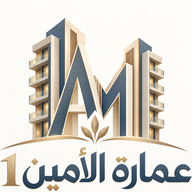
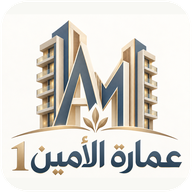
Add files via upload

diff --git a/index.html b/index.html
@@ -3,24 +3,24 @@
 <head>
   <meta charset="utf-8">
   <meta name="viewport" content="width=device-width,initial-scale=1">
+  <link rel="icon" type="image/png" sizes="64x64" href="./icons/favicon.png?v=45.0">
+  <link rel="apple-touch-icon" href="./icons/apple-touch-icon.png?v=45.0">
   <meta name="theme-color" content="#123f3a"><meta name="mobile-web-app-capable" content="yes"><meta name="apple-mobile-web-app-capable" content="yes"><meta name="apple-mobile-web-app-title" content="عمارة الأمين">
   <title>عمارة الأمين — إدارة الحسابات</title>
   <link rel="preconnect" href="https://fonts.googleapis.com">
   <link rel="preconnect" href="https://fonts.gstatic.com" crossorigin>
   <link href="https://fonts.googleapis.com/css2?family=IBM+Plex+Sans+Arabic:wght@400;500;600;700&family=Plus+Jakarta+Sans:wght@500;600;700;800&display=swap" rel="stylesheet">
-  <link rel="icon" type="image/png" href="./logo-ameen-mark.png?v=44.1">
-  <link rel="apple-touch-icon" href="./logo-ameen-mark.png?v=44.1">
-  <link rel="manifest" href="./manifest.webmanifest?v=44.1"><link rel="stylesheet" href="./styles-v31.css?v=44.1">
+  <link rel="manifest" href="./manifest.webmanifest?v=45.0"><link rel="stylesheet" href="./styles-v31.css?v=45.0">
   <script defer src="https://cdn.jsdelivr.net/npm/xlsx-js-style@1.2.0/dist/xlsx.bundle.js"></script>
   <script defer src="https://cdnjs.cloudflare.com/ajax/libs/html2pdf.js/0.10.1/html2pdf.bundle.min.js"></script>
 </head>
 <body>
-  <div id="boot" class="boot"><div class="boot-card"><div class="brand-logo boot-logo"><img src="./logo-ameen-mark.png?v=44.1" alt="شعار عمارة الأمين"></div><h1>عمارة الأمين</h1><p>جاري تجهيز الحسابات…</p></div></div>
+  <div id="boot" class="boot"><div class="boot-card"><div class="brand-logo brand-logo-hero"><img src="./assets/ameen-logo.png?v=45.0" alt="عمارة الأمين"></div><h1>عمارة الأمين</h1><p>جاري تجهيز الحسابات…</p></div></div>
 
   <div id="auth-screen" class="auth-screen hidden">
     <div class="auth-decoration d1"></div><div class="auth-decoration d2"></div>
     <div class="auth-card">
-      <div class="brand-lockup"><div class="brand-logo auth-logo"><img src="./logo-ameen-mark.png?v=44.1" alt="شعار عمارة الأمين"></div><div><b>عمارة الأمين</b><span>نظام إدارة الحسابات</span></div></div>
+      <div class="brand-lockup"><div class="brand-logo"><img src="./assets/ameen-mark.png?v=45.0" alt="عمارة الأمين"></div><div><b>عمارة الأمين</b><span>نظام إدارة الحسابات</span></div></div>
       <div class="auth-chip">● تسجيل دخول آمن</div>
       <h1>أهلاً وسهلاً</h1>
       <p>سجّل الدخول بحساب Google للوصول إلى بيانات العمارة والقراءات والحسابات.</p>
@@ -33,7 +33,7 @@
   <div id="app-shell" class="app-shell hidden">
     <aside id="sidebar" class="sidebar">
       <div class="sidebar-header">
-        <div class="brand-lockup sidebar-brand"><div class="brand-logo small sidebar-logo"><img src="./logo-ameen-mark.png?v=44.1" alt="شعار عمارة الأمين"></div><div><b>عمارة الأمين</b><span>إدارة الحسابات</span></div></div>
+        <div class="brand-lockup sidebar-brand"><div class="brand-logo small"><img src="./assets/ameen-mark.png?v=45.0" alt="عمارة الأمين"></div><div><b>عمارة الأمين</b><span>إدارة الحسابات</span></div></div>
         <button id="quickPeriod" class="start-week"><span class="plus-circle">+</span><span><b>ابدأ أسبوعًا جديدًا</b><small>القراءات السابقة تنتقل تلقائيًا</small></span></button>
       </div>
 
@@ -78,6 +78,6 @@
   <div id="toast" class="toast hidden"></div>
   <div id="modal" class="modal hidden" aria-hidden="true"><div class="modal-card"><button id="modalClose" class="modal-close">×</button><div id="modalBody"></div></div></div>
 
-  <script type="module" src="./app-v31.js?v=44.1"></script><script>if("serviceWorker" in navigator){window.addEventListener("load",()=>navigator.serviceWorker.register("./sw.js?v=44.1").catch(()=>{}));}</script>
+  <script type="module" src="./app-v31.js?v=45.0"></script><script>if("serviceWorker" in navigator){window.addEventListener("load",()=>navigator.serviceWorker.register("./sw.js?v=45.0").catch(()=>{}));}</script>
 </body>
 </html>

diff --git a/styles-v31.css b/styles-v31.css
@@ -168,9 +168,69 @@ body{letter-spacing:0}
 
 .approval-count{display:inline-flex;min-width:20px;height:20px;padding:0 6px;align-items:center;justify-content:center;border-radius:999px;background:#c62828;color:#fff;font-size:11px;font-weight:800;margin-inline-start:auto}.readonly-hidden{display:none!important}
 
-/* Real Al-Ameen branding */
-.brand-logo{overflow:hidden;background:#fff;border:1px solid rgba(20,59,53,.10);padding:0;isolation:isolate;}
-.brand-logo img{display:block;width:100%;height:100%;object-fit:cover;border-radius:inherit;}
-.boot-logo{width:84px;height:84px;border-radius:24px;box-shadow:0 16px 34px rgba(19,65,57,.14);margin:0 auto;}
-.auth-logo{width:68px;height:68px;border-radius:20px;box-shadow:0 12px 26px rgba(19,65,57,.12);}
-.sidebar-logo{width:44px;height:44px;border-radius:15px;box-shadow:0 8px 18px rgba(19,65,57,.10);}
+
+/* V45 responsive polish + logo */
+.brand-logo{background:#fff;border:1px solid #e5e9e4;overflow:hidden;flex:none;box-shadow:0 7px 18px rgba(24,55,49,.08);padding:2px}
+.brand-logo img{width:100%;height:100%;display:block;object-fit:cover;border-radius:inherit}
+.brand-logo-hero{width:110px;height:110px;border-radius:26px;margin:0 auto;padding:4px;box-shadow:0 12px 30px rgba(24,55,49,.10)}
+.brand-logo-hero img{object-fit:contain;border-radius:20px}
+.sidebar-brand .brand-logo.small{padding:2px}
+@media(max-width:900px){
+  html,body{overflow-x:hidden}
+  .main-shell{padding-left:12px;padding-right:12px}
+  .topbar{margin-bottom:14px}
+  .topbar-actions{display:grid;grid-template-columns:1fr;gap:7px;width:100%}
+  .topbar-actions .btn{width:100%}
+  .panel,.report-hero,.guide-hero,.welcome{padding:14px;border-radius:13px}
+  .panel-head{flex-direction:column;align-items:stretch;gap:10px}
+  .panel-actions,.head-actions,.row-actions,.report-table-tools,.guide-actions-right{display:flex;flex-wrap:wrap;gap:7px}
+  .panel-actions .btn,.head-actions .btn,.row-actions .btn,.report-table-tools .btn,.guide-actions-right .btn{flex:1 1 auto;min-width:120px}
+  .table-wrap{width:100%;overflow-x:auto;overflow-y:hidden;-webkit-overflow-scrolling:touch;overscroll-behavior-inline:contain}
+  .table{min-width:680px}
+  .resident-ledger-table{min-width:900px}
+  .account-report-table{min-width:760px}
+  .modal{padding:7px;align-items:end}
+  .modal-card{width:100%;max-width:none;max-height:94vh;border-radius:17px 17px 0 0;padding:18px 14px 14px}
+  .modal-close{left:10px;top:6px}
+  .form-grid,.inline-fields,.source-row,.calc-board,.settings-grid,.grid-2,.money-grid{grid-template-columns:1fr!important}
+  .field.full{grid-column:auto!important}
+  .source-row .actions{grid-column:auto!important}
+  .reading-input{width:100%;min-width:0}
+  .readings-actions{align-items:stretch;flex-direction:column}
+  .readings-actions .btn{width:100%}
+  .stats,.report-grid,.workflow-grid{grid-template-columns:1fr 1fr!important}
+  .welcome{min-height:0!important}
+  .welcome-copy{width:100%}
+  .welcome-actions{flex-wrap:wrap}
+  .welcome-actions .btn{flex:1 1 180px}
+}
+@media(max-width:560px){
+  body{font-size:14px}
+  .main-shell{padding:0 9px 26px}
+  .topbar{min-height:70px;padding:11px 0}
+  .topbar h1{font-size:21px}
+  .breadcrumb{font-size:9px}
+  .mobile-menu{width:36px;height:36px}
+  .stats,.report-grid,.workflow-grid{grid-template-columns:1fr!important}
+  .welcome h2{font-size:22px}
+  .welcome .kicker{font-size:9px}
+  .welcome-actions{display:grid;grid-template-columns:1fr}
+  .welcome-actions .btn{width:100%}
+  .panel-head h2{font-size:15px}
+  .btn{min-height:40px;padding:9px 11px;font-size:10px}
+  .panel{padding:12px}
+  .table{min-width:620px}
+  .toast{left:9px;right:9px;bottom:9px;text-align:center}
+  .brand-logo-hero{width:88px;height:88px;border-radius:22px}
+  .auth-card{padding:24px 18px;border-radius:22px;width:min(470px,calc(100% - 20px))}
+  .auth-card h1{font-size:27px}
+  .sidebar{width:min(320px,92vw)}
+  .sidebar-header{padding:16px 14px 10px}
+  .sidebar-nav-wrap{padding-inline:9px}
+  .nav-item{padding:10px 11px;font-size:12px}
+  .profile-mini{padding:4px 0}
+}
+@media(hover:hover) and (pointer:fine){
+  .btn,.nav-item,.latest,.workflow-card{transition:transform .16s ease,box-shadow .16s ease,background .16s ease}
+  .btn:hover{transform:translateY(-1px)}
+}

diff --git a/app-v31.js b/app-v31.js
@@ -72,7 +72,7 @@ async function createApprovalRequest(action,ref,data,oldData){
   return r.id;
 }
 const APPROVAL_SENT='__APPROVAL_SENT__';
-async function setDoc(ref,data,options){
+async function setDocWithAudit(ref,data,options){
   const result=await fsSetDoc(ref,data,options);
   const coll=ref?.parent?.id||'';
   if(state.user&&state.profile&&coll&&!['auditLogs','approvalRequests','seedDeletes','members'].includes(coll)&&!(data?.embeddedSource)) await addAudit('إضافة',coll,ref?.id||'',`إضافة سجل ${ref?.id||''}`);
@@ -357,7 +357,7 @@ async function ensureDefaults(){
   // Fallback for a completely new organization only if no embedded data could be used.
   if(!(state.data.buildings||[]).length){
     const b1=doc(orgCollection('buildings'));const b2=doc(orgCollection('buildings'));
-    await Promise.all([setDoc(b1,{name:'البناية الأولى',code:'1',active:true,createdAt:serverTimestamp()}),setDoc(b2,{name:'البناية الثانية',code:'2',active:true,createdAt:serverTimestamp()})]);
+    await Promise.all([setDocWithAudit(b1,{name:'البناية الأولى',code:'1',active:true,createdAt:serverTimestamp()}),setDocWithAudit(b2,{name:'البناية الثانية',code:'2',active:true,createdAt:serverTimestamp()})]);
     state.loaded=false;await loadData(true);
   }
 }

diff --git a/sw.js b/sw.js
@@ -1,5 +1,5 @@
-const CACHE='amin-building-v44-1';
-const CORE=['./','./index.html','./app-v31.js?v=44.1','./styles-v31.css?v=44.1','./initial-data.js','./firebase-config.js','./firebase-init-v31.js','./manifest.webmanifest?v=44.1','./icons/icon-192.png','./icons/icon-512.png'];
+const CACHE='amin-building-v45';
+const CORE=['./','./index.html','./app-v31.js?v=45.0','./styles-v31.css?v=45.0','./initial-data.js','./firebase-config.js','./firebase-init-v31.js','./manifest.webmanifest?v=45.0','./icons/icon-192.png','./icons/icon-512.png'];
 self.addEventListener('install',e=>{e.waitUntil(caches.open(CACHE).then(c=>c.addAll(CORE)).then(()=>self.skipWaiting()));});
 self.addEventListener('activate',e=>{e.waitUntil(caches.keys().then(keys=>Promise.all(keys.filter(k=>k!==CACHE).map(k=>caches.delete(k)))).then(()=>self.clients.claim()));});
 self.addEventListener('fetch',e=>{if(e.request.method!=='GET')return;const u=new URL(e.request.url);if(u.origin===location.origin){e.respondWith(caches.match(e.request).then(c=>c||fetch(e.request).then(r=>{const copy=r.clone();caches.open(CACHE).then(cache=>cache.put(e.request,copy));return r;}).catch(()=>caches.match('./index.html'))));}});
